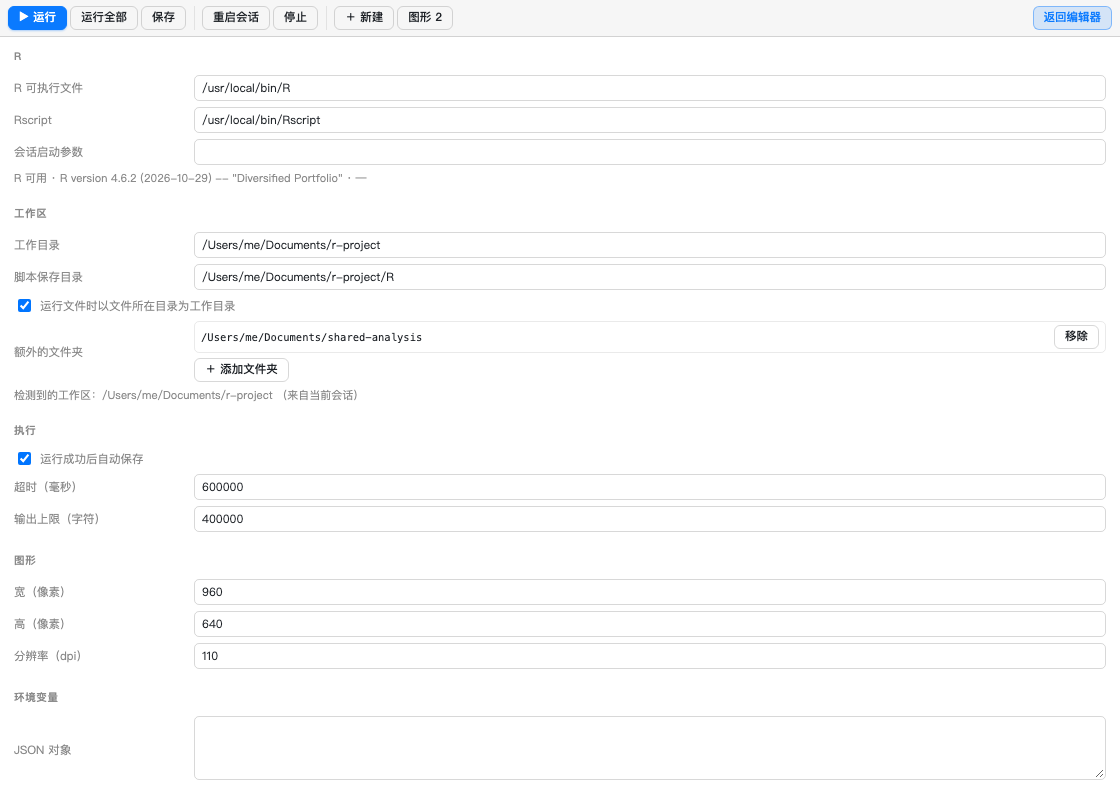
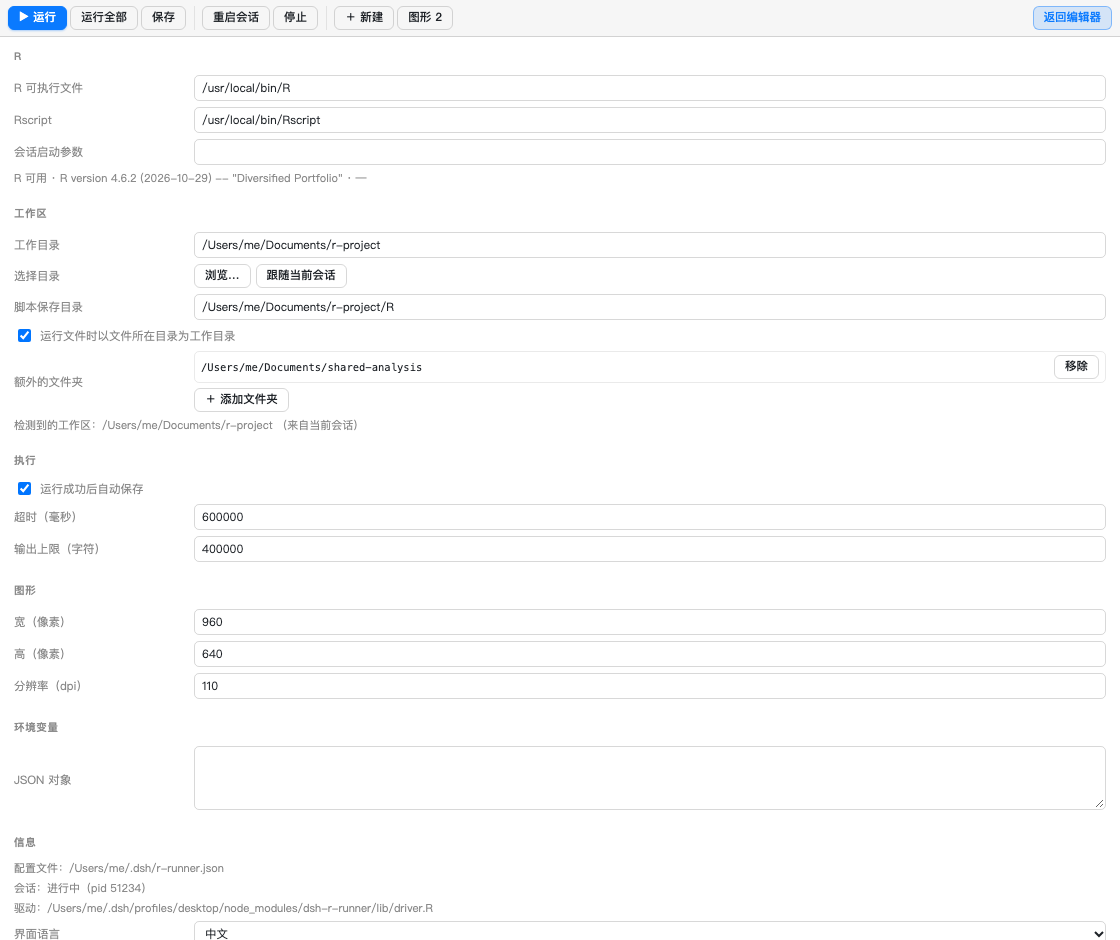
feat(panel): folder picker, switchable workspace, .Rproj detection

diff --git a/lib/client.js b/lib/client.js
@@ -538,6 +538,17 @@ window.__ModuleLoader__.load({
 .rr-root-row { display:flex; align-items:center; gap:6px; padding:3px 6px; border:1px solid var(--rr-border-soft); border-radius:5px; font-family:var(--rr-mono); font-size:10.5px; }
 .rr-root-row span { overflow:hidden; text-overflow:ellipsis; white-space:nowrap; flex:1 1 auto; }
 .rr-roots > .rr-btn { align-self:flex-start; }
+.rr-pick-portal { position:fixed; inset:0; z-index:9998; display:flex; align-items:center; justify-content:center; background:rgba(5,7,10,.42); }
+.rr-pick-card { width:min(580px,94vw); max-height:min(600px,88vh); display:flex; flex-direction:column; border-radius:12px; background:var(--rr-bg, #fff); color:inherit; border:1px solid var(--rr-border); box-shadow:0 24px 60px rgba(0,0,0,.30); overflow:hidden; font-family:-apple-system, BlinkMacSystemFont, "PingFang SC", sans-serif; }
+.rr-pick-head { display:flex; align-items:center; gap:8px; padding:8px 10px; border-bottom:1px solid var(--rr-border-soft); }
+.rr-pick-title { font-weight:600; font-size:12px; white-space:nowrap; }
+.rr-pick-path { font-family:var(--rr-mono); font-size:11px; color:var(--rr-muted); overflow:hidden; text-overflow:ellipsis; white-space:nowrap; flex:1 1 auto; min-width:0; }
+.rr-pick-list { overflow:auto; padding:4px; flex:1 1 auto; min-height:140px; }
+.rr-pick-row { display:flex; align-items:center; gap:8px; padding:4px 8px; border-radius:5px; cursor:pointer; font-size:12px; color:inherit; }
+.rr-pick-row:hover { background:var(--rr-bg-hover); }
+.rr-pick-row[data-here="true"] { color:var(--rr-accent); font-weight:600; }
+.rr-pick-empty { padding:14px 10px; font-size:11.5px; color:var(--rr-muted); }
+.rr-pick-foot { display:flex; gap:6px; justify-content:flex-end; padding:8px 10px; border-top:1px solid var(--rr-border-soft); background:var(--rr-bg-soft, rgba(127,127,127,.07)); }
 .rr-modal-backdrop { position:fixed; inset:0; background:rgba(0,0,0,.42); display:flex; align-items:center; justify-content:center; z-index:60; }
 .rr-modal { width:min(440px, 88vw); border-radius:8px; border:1px solid var(--rr-border); background:canvas; color:inherit; padding:14px 16px; box-shadow:0 12px 40px rgba(0,0,0,.35); }
 .rr-modal h3 { margin:0 0 6px; font-size:13px; }
@@ -746,7 +757,11 @@ window.__ModuleLoader__.load({
         plotsSection: '图形', envSection: '环境变量', info: '信息',
         problems: '个问题', completions: '建议', namespaceItems: '包的导出', fieldItems: '字段',
         folders: '文件夹', variables: '变量', loading: '加载中…', noPackages: '还没有加载包信息。',
-        name: '名称', value: '值', type: '类型', size: '大小', table: '表'
+        name: '名称', value: '值', type: '类型', size: '大小', table: '表',
+        cancel: '取消', chooseDir: '选择目录', browse: '浏览…', followSession: '跟随当前会话',
+        pickFolder: '添加文件夹', pickWorkdir: '选择工作目录', useThisDir: '用这个目录',
+        addThisFolder: '添加此文件夹', noSubfolders: '（没有子文件夹）', parentDir: '上一级',
+        homeDir: '主目录', currentWorkdir: '工作区'
       },
       en: {
         run: '▶ Run', running: 'Running…', runAll: 'Run all', save: 'Save', restart: 'Restart',
@@ -774,7 +789,11 @@ window.__ModuleLoader__.load({
         plotsSection: 'Plots', envSection: 'Environment variables', info: 'Info',
         problems: 'problems', completions: 'Suggestions', namespaceItems: 'Exports', fieldItems: 'Fields',
         folders: 'Folders', variables: 'Variables', loading: 'Loading…', noPackages: 'No package data loaded yet.',
-        name: 'Name', value: 'Value', type: 'Type', size: 'Size', table: 'View'
+        name: 'Name', value: 'Value', type: 'Type', size: 'Size', table: 'View',
+        cancel: 'Cancel', chooseDir: 'Choose folder', browse: 'Browse…', followSession: 'Follow the session',
+        pickFolder: 'Add folder', pickWorkdir: 'Choose the working directory', useThisDir: 'Use this folder',
+        addThisFolder: 'Add this folder', noSubfolders: '(no sub-folders)', parentDir: 'Up one level',
+        homeDir: 'Home', currentWorkdir: 'Workspace'
       }
     }
 
@@ -801,6 +820,8 @@ window.__ModuleLoader__.load({
       const [running, setRunning] = react.useState(false)
       const [message, setMessage] = react.useState('')
       const [editing, setEditing] = react.useState(null)
+      const [picker, setPicker] = react.useState(() => props.preview?.picker ?? null)
+      const [workspaces, setWorkspaces] = react.useState([])
       const [bottomTab, setBottomTab] = react.useState(() => props.preview?.bottomTab ?? localStorage.getItem(BOTTOM_TAB_KEY) ?? 'console')
       const [cmd, setCmd] = react.useState('')
       const [cmdHistory, setCmdHistory] = react.useState([])
@@ -891,6 +912,19 @@ window.__ModuleLoader__.load({
         if (first !== undefined) setActiveKey(first)
       }, [buffers, activeKey])
 
+      react.useEffect(() => {
+        if (picker === null) return undefined
+        if (typeof window.addEventListener !== 'function') return undefined
+        const onKey = (event) => {
+          if (event.key === 'Escape') {
+            event.preventDefault()
+            setPicker(null)
+          }
+        }
+        window.addEventListener('keydown', onKey)
+        return () => window.removeEventListener('keydown', onKey)
+      }, [picker === null])
+
       // tree -------------------------------------------------------------
 
       const loadTree = (path) => {
@@ -912,6 +946,11 @@ window.__ModuleLoader__.load({
       const refreshTree = () => {
         if (treeOpen) loadTree(treePath ?? undefined)
       }
+
+      react.useEffect(() => {
+        if (props.preview !== undefined) return
+        loadWorkspaces()
+      }, [])
 
       // variables ---------------------------------------------------------
 
@@ -1265,16 +1304,51 @@ window.__ModuleLoader__.load({
         }
       }
 
-      const addRoot = () => {
-        const path = window.prompt('文件夹绝对路径 / Folder path')
-        if (path === null || path.trim() === '') return
-        api('roots', { method: 'POST', body: { path: path.trim() } })
+      // ---------------------------------------------------------- folder picker
+      // The desktop shell has no window.prompt(), so adding a folder needs its own
+      // browser: the host lists directories (GET /r/api/browse) and the panel shows them.
+
+      const pickerGo = (path) => {
+        setPicker((current) => (current === null ? current : { ...current, loading: true, error: '' }))
+        api('browse?path=' + encodeURIComponent(path))
+          .then((value) => setPicker((current) => (current === null ? current : { ...current, ...value, loading: false })))
+          .catch((error) => setPicker((current) => (current === null ? current : { ...current, loading: false, error: String(error.message ?? error) })))
+      }
+
+      const openPicker = (mode, start) => {
+        const initial = start ?? config?.workdir ?? ''
+        setPicker({ mode, path: initial, parent: null, entries: [], loading: true, error: '' })
+        pickerGo(initial)
+      }
+
+      const closePicker = () => setPicker(null)
+
+      const confirmPicker = () => {
+        if (picker === null) return
+        const path = picker.path
+        if (picker.mode === 'workdir') {
+          setDraft((current) => (current === null ? current : { ...current, workdir: path, autoDetect: false }))
+          closePicker()
+          flash(`工作目录改为 ${path}（记得保存配置）`)
+          return
+        }
+        api('roots', { method: 'POST', body: { path } })
           .then((value) => {
             setConfig((current) => ({ ...current, extraRoots: value.extraRoots }))
             setDraft((current) => (current === null ? current : { ...current, extraRoots: value.extraRoots }))
             refreshTree()
+            closePicker()
+            flash(`已添加 ${path}`)
           })
           .catch((error) => flash(String(error.message ?? error)))
+      }
+
+      const addRoot = () => openPicker('root', config?.workdir ?? treePath ?? '')
+
+      const loadWorkspaces = () => {
+        api('workspaces')
+          .then((value) => setWorkspaces(Array.isArray(value.items) ? value.items : []))
+          .catch(() => setWorkspaces([]))
       }
 
       const removeRoot = (path) => {
@@ -2301,6 +2375,30 @@ window.__ModuleLoader__.load({
           h('div', { className: 'rr-section' },
             h('h4', null, L('workspace')),
             field('工作目录', 'workdir'),
+            h('div', { className: 'rr-row' },
+              h('span', { className: 'rr-row-label' }, L('chooseDir')),
+              h('div', { className: 'rr-roots', style: { flexDirection: 'row', alignItems: 'center', flexWrap: 'wrap' } },
+                h('button', {
+                  className: 'rr-btn',
+                  'data-rr-browse-workdir': true,
+                  onClick: () => openPicker('workdir', value.workdir)
+                }, L('browse')),
+                workspaces.length === 0 ? null : h('select', {
+                  'data-rr-workspace-pick': true,
+                  value: '',
+                  onChange: (event) => {
+                    const path = event.currentTarget.value
+                    if (path !== '') setDraft({ ...value, workdir: path, autoDetect: false })
+                  }
+                },
+                h('option', { value: '' }, '会话工作区…'),
+                workspaces.map((workspace) => h('option', { key: workspace.id, value: workspace.path }, workspace.title))),
+                h('button', {
+                  className: 'rr-btn',
+                  'data-rr-follow-session': true,
+                  title: '让工作目录跟随当前 DSH 会话的工作区',
+                  onClick: () => setDraft({ ...value, autoDetect: true })
+                }, L('followSession')))),
             field('脚本保存目录', 'scriptDir'),
             field('运行文件时以文件所在目录为工作目录', 'runInFileDir', 'checkbox'),
             h('div', { className: 'rr-row' },
@@ -2336,6 +2434,10 @@ window.__ModuleLoader__.load({
             h('div', { className: 'rr-hint', 'data-rr-config-path': true }, `配置文件：${config?.configPath ?? '~/.dsh/r-runner.json'}`),
             h('div', { className: 'rr-hint' }, `会话：${status.running ? `进行中（pid ${status.pid}）` : '未启动'}`),
             h('div', { className: 'rr-hint' }, `驱动：${config?.driverPath ?? ''}`),
+            h('div', { className: 'rr-hint', 'data-rr-project': true },
+              state.project === null || state.project === undefined
+                ? '项目：未发现 .Rproj（工作目录下没有 RStudio 项目文件）'
+                : `项目：${state.project.name}`),
             h('div', { className: 'rr-row' },
               h('span', { className: 'rr-row-label' }, L('language')),
               h('div', { className: 'rr-roots' },
@@ -2350,6 +2452,59 @@ window.__ModuleLoader__.load({
             h('button', { className: 'rr-btn', 'data-primary': true, 'data-rr-save-config': true, onClick: saveConfig }, L('saveConfig')),
             h('button', { className: 'rr-btn', 'data-rr-reset-config': true, onClick: resetConfig }, L('restoreDefaults')),
             h('button', { className: 'rr-btn', 'data-rr-restart-2': true, onClick: restartSession }, L('restart'))))
+      }
+
+      function renderPicker() {
+        if (picker === null) return null
+        const dirs = Array.isArray(picker.entries) ? picker.entries : []
+        const body = picker.loading
+          ? h('div', { className: 'rr-pick-empty' }, L('loading'))
+          : picker.error !== ''
+            ? h('div', { className: 'rr-pick-empty' }, picker.error)
+            : dirs.length === 0
+              ? h('div', { className: 'rr-pick-empty' }, L('noSubfolders'))
+              : dirs.map((dir) => h('div', {
+                className: 'rr-pick-row',
+                key: dir.path,
+                'data-rr-pick-dir': dir.path,
+                title: dir.path,
+                onDoubleClick: () => confirmPicker(),
+                onClick: () => pickerGo(dir.path)
+              },
+              h('span', { 'aria-hidden': true, style: { opacity: 0.7 } }, '📁'),
+              h('span', { style: { overflow: 'hidden', textOverflow: 'ellipsis', whiteSpace: 'nowrap' } }, dir.name)))
+
+        const card = h('div', { className: 'rr-pick-card', 'data-rr-picker': true, onClick: (event) => event.stopPropagation() },
+          h('div', { className: 'rr-pick-head' },
+            h('span', { className: 'rr-pick-title' }, picker.mode === 'workdir' ? L('pickWorkdir') : L('pickFolder')),
+            h('button', {
+              className: 'rr-btn',
+              title: L('parentDir'),
+              onClick: () => picker.parent !== null && pickerGo(picker.parent)
+            }, '⤴'),
+            h('button', { className: 'rr-btn', onClick: () => pickerGo(picker.home ?? '/') }, L('homeDir')),
+            h('button', {
+              className: 'rr-btn',
+              title: '回到当前工作区',
+              onClick: () => pickerGo(picker.workdir ?? picker.path)
+            }, L('currentWorkdir'))),
+          h('div', { className: 'rr-pick-path', title: picker.path }, picker.path),
+          h('div', { className: 'rr-pick-list', 'data-rr-pick-list': true }, body),
+          h('div', { className: 'rr-pick-foot' },
+            h('button', { className: 'rr-btn', onClick: closePicker }, L('cancel')),
+            h('button', {
+              className: 'rr-btn',
+              'data-primary': true,
+              'data-rr-pick-confirm': true,
+              disabled: picker.loading || picker.error !== '',
+              onClick: confirmPicker
+            }, picker.mode === 'workdir' ? L('useThisDir') : L('addThisFolder'))))
+
+        const overlay = h('div', { className: 'rr-lb-portal rr-pick-portal', onClick: closePicker }, card)
+        if (reactDom !== null && typeof reactDom.createPortal === 'function') {
+          return reactDom.createPortal(overlay, document.body)
+        }
+        return overlay
       }
 
       function renderModal() {
@@ -2402,6 +2557,7 @@ window.__ModuleLoader__.load({
           renderPlots(),
           renderStatus()],
         renderModal(),
+        renderPicker(),
         view === 'plot' ? renderPlotWindow() : null)
     }
 

diff --git a/lib/index.js b/lib/index.js
@@ -10,6 +10,7 @@
  * @module dsh-r-runner
  */
 import { readFileSync, readdirSync, statSync, unlinkSync } from 'node:fs'
+import { homedir } from 'node:os'
 import { dirname, join, resolve, sep } from 'node:path'
 import {
   RSession,
@@ -38,6 +39,16 @@ import {
 
 /** Runtime-identity stand-in for the host's typing helper (see matlab runner). */
 const defineTool = (definition) => definition
+
+/** First `*.Rproj` sitting directly in `dir` — RStudio treats it as the project root. */
+function findProject(dir) {
+  try {
+    const name = readdirSync(dir).find(entry => entry.toLowerCase().endsWith('.rproj'))
+    return name === undefined ? null : { name, path: join(dir, name) }
+  } catch {
+    return null
+  }
+}
 
 export const inject = ['webServer', 'subprocess', 'workspaceRegistry']
 
@@ -248,6 +259,7 @@ export function apply(ctx) {
       try {
         if (request.method === 'GET' && route === 'state') {
           const config = effectiveConfig()
+          const project = findProject(config.workdir)
           const sessionNow = getSession()
           const probe = await probeR(config)
           return sendJson(response, 200, {
@@ -259,6 +271,7 @@ export function apply(ctx) {
               driverPath: resolveDriverPath(),
               defaults: defaultConfig(),
               detected: config.detected,
+              project,
             },
           })
         }
@@ -299,6 +312,47 @@ export function apply(ctx) {
               entries: treeEntries(dir, { showHidden: queryParam(request.url, 'hidden') === '1' }),
             },
           })
+        }
+        if (request.method === 'GET' && route === 'browse') {
+          const raw = queryParam(request.url, 'path')
+          const config = effectiveConfig()
+          // Browsing is how the user *picks* a folder, so it deliberately ignores the
+          // workdir guard — it only reads directory names, never file contents.
+          const want = String(raw ?? '').trim()
+          const dir = want === '' ? homedir() : resolve(want)
+          if (!isDirectory(dir)) throw new Error(`not a directory: ${dir}`)
+          const dirents = readdirSync(dir, { withFileTypes: true })
+            .filter(entry => entry.isDirectory() && !entry.name.startsWith('.'))
+            .map(entry => ({ name: entry.name, path: join(dir, entry.name) }))
+            .sort((a, b) => a.name.localeCompare(b.name, undefined, { sensitivity: 'base' }))
+          return sendJson(response, 200, {
+            ok: true,
+            value: {
+              path: dir,
+              parent: dirname(dir) === dir ? null : dirname(dir),
+              home: homedir(),
+              workdir: config.workdir,
+              scriptDir: effectiveScriptDir(config),
+              entries: dirents.slice(0, 500),
+              truncated: dirents.length > 500,
+            },
+          })
+        }
+        if (request.method === 'GET' && route === 'workspaces') {
+          let items = []
+          try {
+            const list = ctx.workspaceRegistry?.list?.() ?? []
+            items = (Array.isArray(list) ? list : [])
+              .filter(item => typeof item?.path === 'string' && item.path !== '')
+              .map(item => ({
+                id: String(item.id ?? item.path),
+                path: item.path,
+                title: String(item.title ?? item.name ?? item.path),
+              }))
+          } catch {
+            items = []
+          }
+          return sendJson(response, 200, { ok: true, value: { items } })
         }
         if (request.method === 'GET' && route === 'stat') {
           const path = resolvePath(queryParam(request.url, 'path'))

diff --git a/README.md b/README.md
@@ -74,6 +74,16 @@ data viewer:
   copying the path when the browser blocks the new tab).
 - **English UI.** 设置 → 信息 → 界面语言 switches the shell (toolbar, tabs, headers,
   status bar, plot window) between 中文 and English; the choice is remembered.
+- **Folder picker, no blind typing.** The desktop shell has no `window.prompt()`, so
+  **＋ 文件夹** (tree header and settings) opens an in-panel browser
+  (`GET /r/api/browse`): `⤴` up, **主目录**, **工作区**, click a folder to walk in,
+  double-click or **添加此文件夹** to add it as an extra root. The picker ignores the
+  workdir guard on purpose — it only lists directory names.
+- **Switchable working directory.** Settings → **选择目录** → **浏览…** picks a folder
+  (this turns `autoDetect` off so the choice sticks), the **会话工作区** dropdown lists
+  the DSH workspaces, and **跟随当前会话** makes the panel follow the session again.
+- **RStudio projects.** The host reports the first `*.Rproj` in the working directory
+  (settings → 信息 → 项目), so a project root is visible without opening RStudio.
 - **Agent tool.** `r_run({ code })` / `r_run({ file })` lets the model run R directly
   and get back the console output plus plot paths.
 
@@ -118,6 +128,8 @@ to the profile manifest; `bin/reload-host.sh` forces the host to re-compose.
 | Completion | `Ctrl+Space`, or type after `.` / `$` / `::` |
 | Jump to definition | `F12` or `⌘`-click on a name |
 | Install a package | 包 tab → type a name → `install.packages()` |
+| Add a folder | **＋ 文件夹** (tree) or **添加文件夹** (settings) → browse |
+| Change the working directory | Settings → 选择目录 → **浏览…** / 会话工作区 |
 | Render the `.Rmd` | **预览 Rmd** in the toolbar |
 | Run the current `.Rmd` chunk | `⌘/Ctrl+Enter` inside an `{r}` chunk |
 | Enlarge a plot | click its thumbnail (floating window) |

diff --git a/docs/PLAN.md b/docs/PLAN.md
@@ -23,7 +23,7 @@
 **不要的**
 
 - 不做完整的 R 语言服务器（补全/跳转/诊断交给 `languageserver` + 未来的 LSP 桥）。
-- 不接管 RStudio 的项目系统（`.Rproj`），只认「工作目录 + 若干额外文件夹」。
+- 不接管 RStudio 的项目系统（只读地认 `.Rproj` 名字用于显示）；仍然只认「工作目录 + 若干额外文件夹」。
 - 不在浏览器里跑 R（WASM 版 webR 作为可选后备，见路线图 P2）。
 
 ---
@@ -115,7 +115,7 @@ DSH 插件分两半，边界由「谁有权限、谁有 UI」决定：
 ### P2 — 生态（v0.3+）
 
 - [ ] Shiny / Quarto 一键预览（子进程 + 端口探测 + 内嵌窗口）。
-- [ ] 项目系统：认 `.Rproj`，设置页显示当前项目并把 `scriptDir` 跟随。
+- [~] 项目系统：已认 `.Rproj`（`state.project`，设置页「信息 → 项目」显示）；`scriptDir` 跟随项目根仍待做。
 - [ ] 远程 R：SSH 到服务器跑 driver（`R --slave` 远端 TCP 转发）。
 - [ ] webR 后备：本机没装 R 时用 WASM 版跑纯计算型代码（无图形、无包）。
 - [ ] 与 matlab-runner 抽公共层：会话进程管理、变量表、图形条、文件树都可复用。
